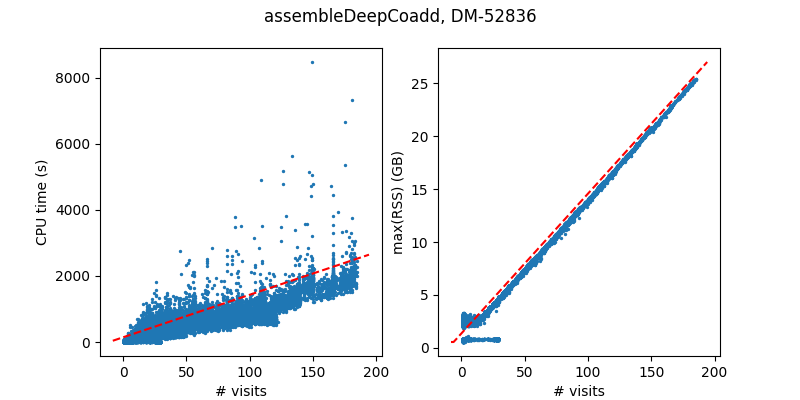
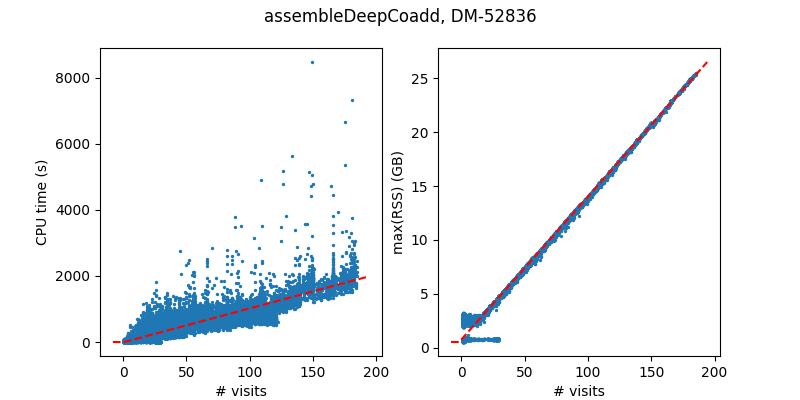
update plots; add tables

diff --git a/index.rst b/index.rst
@@ -55,7 +55,7 @@ For tasks that do not have significant scaling dependence, we simply use the mea
          :alt: fig_1d
 
 
-As noted, the resource usage for some tasks in the coadd and variability-related processing stages have strong dependence on the number of visits.  In order to model that dependence, we partition the data in bins of numbers of visits, then fit a line to the 95 percentile values in those bins.   This gives us a conservative estimate of the 95 percentile upper envelope of the expected resource needs.   Some of these tasks have strong dependence on numbers of visits for both CPU time and memory, and some just have a strong dependence on just one or the other.  In Figure 2, we show the fitted lines for ``assembleDeepCoadd``, where a # visit-dependence is modeled for both CPU time and memory usage, and for ``measureObjectForced`` where just the CPU time shows a strong dependence on the # visits, whereas for the memory we use a constant value, in this case, the mean value of 1.5 GB.
+As noted, the resource usage for some tasks in the coadd and variability-related processing stages have strong dependence on the number of visits.  In order to model that dependence, we partition the data in bins of numbers of visits, then fit a line to the median values in those bins.  Some of these tasks have strong dependence on numbers of visits for both CPU time and memory, and some just have a strong dependence on just one or the other.  In Figure 2, we show the fitted lines for ``assembleDeepCoadd``, where a # visit-dependence is modeled for both CPU time and memory usage, and for ``measureObjectForced`` where just the CPU time shows a strong dependence on the # visits, whereas for the memory we use a constant value, in this case, the mean value of 1.5 GB.
 
 **Figure 2**: CPU time and memory usage for ``assembleDeepCoadd`` and ``measureObjectForced`` for DM-52836.
 
@@ -79,7 +79,86 @@ Comparison of Projected and Actual Resource Usage
 =================================================
 Here we use a recent intermittent DRP to compare our predicted resource estimates with the actual values.  As inputs to our calculation, we use the metadata and mean storage sizes for the actual DRP run being considered, DM-52836.
 
-In Table 1, we compare the predicted number of jobs from our overlaps-based calcuation with the numbers computed in the QuantumGraph generation step.  In Table 2, we compare the predicted CPU time estimates per task with the actual CPU times as found from the task metadata files.
+In Table 1, we compare the predicted number of jobs from our overlaps-based calcuation with the numbers computed in the QuantumGraph generation step for a representative subset of tasks.  For tasks including and downstream of ``makeDirectWarp``, our overlaps-based calculation over-predicts the numbers of jobs at the ~24% level.
+
+**Table 1**: Number of jobs for selected tasks for DM-52836
+
+.. table:: Number of jobs per task for DM-52836
+   :widths: grid
+
+   +----------------------------+-----------+----------+
+   | task                       | predicted | actual   |
+   +============================+===========+==========+
+   | isr                        | 868438    | 854501   |
+   +----------------------------+-----------+----------+
+   | consolidateVisitSummary    | 4798      | 4721     |
+   +----------------------------+-----------+----------+
+   | associateIsolatedStar      | 383       | 393      |
+   +----------------------------+-----------+----------+
+   | makeDirectWarp             | 2593360   | 2115198  |
+   +----------------------------+-----------+----------+
+   | assembleDeepCoadd          | 153261    | 123369   |
+   +----------------------------+-----------+----------+
+   | makeHealSparsePropertyMaps | 2019      | 1634     |
+   +----------------------------+-----------+----------+
+   | mergeObjectDetection       | 29184     | 26788    |
+   +----------------------------+-----------+----------+
+   | forcedPhotObjectDetector   | 1477196   | 1185206  |
+   +----------------------------+-----------+----------+
+
+
+In Table 2, we compare the predicted CPU time estimates per task with the actual CPU times as found from the task metadata files.
+
+**Table 2**: Predicted and actual CPU times for top 95% of tasks in DM-52836
+
+.. table:: Predicted and actual CPU times in DM-52836
+   :widths: grid
+
+   +--------------------------------+------------+------------+------------+------------+
+   | task                           | predicted  | actual     | ratio      | cumulative |
+   |                                |            |            |            | fraction   |
+   +================================+============+============+============+============+
+   | measureObjectForced            |    2.9e+08 |    3.3e+08 |       1.12 |       0.21 |
+   +--------------------------------+------------+------------+------------+------------+
+   | measureObjectUnforced          |    1.2e+08 |    2.0e+08 |       1.62 |       0.34 |
+   +--------------------------------+------------+------------+------------+------------+
+   | calibrateImage                 |    1.4e+08 |    1.4e+08 |       0.98 |       0.43 |
+   +--------------------------------+------------+------------+------------+------------+
+   | forcedPhotObjectDetector       |    1.2e+08 |    9.8e+07 |       0.80 |       0.49 |
+   +--------------------------------+------------+------------+------------+------------+
+   | isr                            |    8.0e+07 |    7.9e+07 |       0.98 |       0.54 |
+   +--------------------------------+------------+------------+------------+------------+
+   | makePsfMatchedWarp             |    9.6e+07 |    7.8e+07 |       0.82 |       0.59 |
+   +--------------------------------+------------+------------+------------+------------+
+   | makeDirectWarp                 |    9.4e+07 |    7.6e+07 |       0.82 |       0.64 |
+   +--------------------------------+------------+------------+------------+------------+
+   | reprocessVisitImage            |    7.3e+07 |    6.3e+07 |       0.87 |       0.68 |
+   +--------------------------------+------------+------------+------------+------------+
+   | fitDeepCoaddPsfGaussians       |    4.8e+07 |    6.1e+07 |       1.26 |       0.72 |
+   +--------------------------------+------------+------------+------------+------------+
+   | assembleDeepCoadd              |    6.8e+07 |    5.3e+07 |       0.77 |       0.75 |
+   +--------------------------------+------------+------------+------------+------------+
+   | refitPsfModelDetector          |    3.2e+07 |    4.4e+07 |       1.36 |       0.78 |
+   +--------------------------------+------------+------------+------------+------------+
+   | subtractImages                 |    5.5e+07 |    4.3e+07 |       0.78 |       0.81 |
+   +--------------------------------+------------+------------+------------+------------+
+   | assembleCellCoadd              |    4.0e+07 |    3.6e+07 |       0.90 |       0.83 |
+   +--------------------------------+------------+------------+------------+------------+
+   | detectAndMeasureDiaSource      |    4.3e+07 |    3.4e+07 |       0.78 |       0.85 |
+   +--------------------------------+------------+------------+------------+------------+
+   | rewarpTemplate                 |    3.8e+07 |    3.0e+07 |       0.79 |       0.87 |
+   +--------------------------------+------------+------------+------------+------------+
+   | deblendCoaddFootprints         |    3.1e+07 |    2.6e+07 |       0.85 |       0.89 |
+   +--------------------------------+------------+------------+------------+------------+
+   | deconvolve                     |    3.4e+07 |    2.6e+07 |       0.77 |       0.91 |
+   +--------------------------------+------------+------------+------------+------------+
+   | fitDeblendedObjectsExp         |    2.2e+07 |    2.4e+07 |       1.10 |       0.92 |
+   +--------------------------------+------------+------------+------------+------------+
+   | forcedPhotDiaObjectDetector    |    2.5e+07 |    2.0e+07 |       0.80 |       0.94 |
+   +--------------------------------+------------+------------+------------+------------+
+   | fitDeblendedObjectsSersic      |    1.7e+07 |    1.8e+07 |       1.11 |       0.95 |
+   +--------------------------------+------------+------------+------------+------------+
+
 
 
 Wall Time Considerations
@@ -89,7 +168,7 @@ The measured wall times for some jobs can be substantially larger than the CPU t
 
 Predictions for DP2
 ===================
-These estimates use the DRP.yaml pipeline definition in ``w_2025_43``, and are based on resource usage data from DM-52836.   The input observations are a selection of science observations using LSSTCam, extracted from the consolidated database (consdb).  The query used for the selection is shown below.  For computing the number of datasets per dataset type and information such as the number of visits per patch per band, the ``lsst_cells_v1`` skymap was used.
+These estimates use the DRP.yaml pipeline definition in ``w_2025_41``, and are based on resource usage data from DM-52836.   The input observations are a selection of science observations using LSSTCam, extracted from the consolidated database (consdb).  The query used for the selection is shown below.  For computing the number of datasets per dataset type and information such as the number of visits per patch per band, the ``lsst_cells_v1`` skymap was used.
 
 Storage by Dataset Type
 ^^^^^^^^^^^^^^^^^^^^^^^
